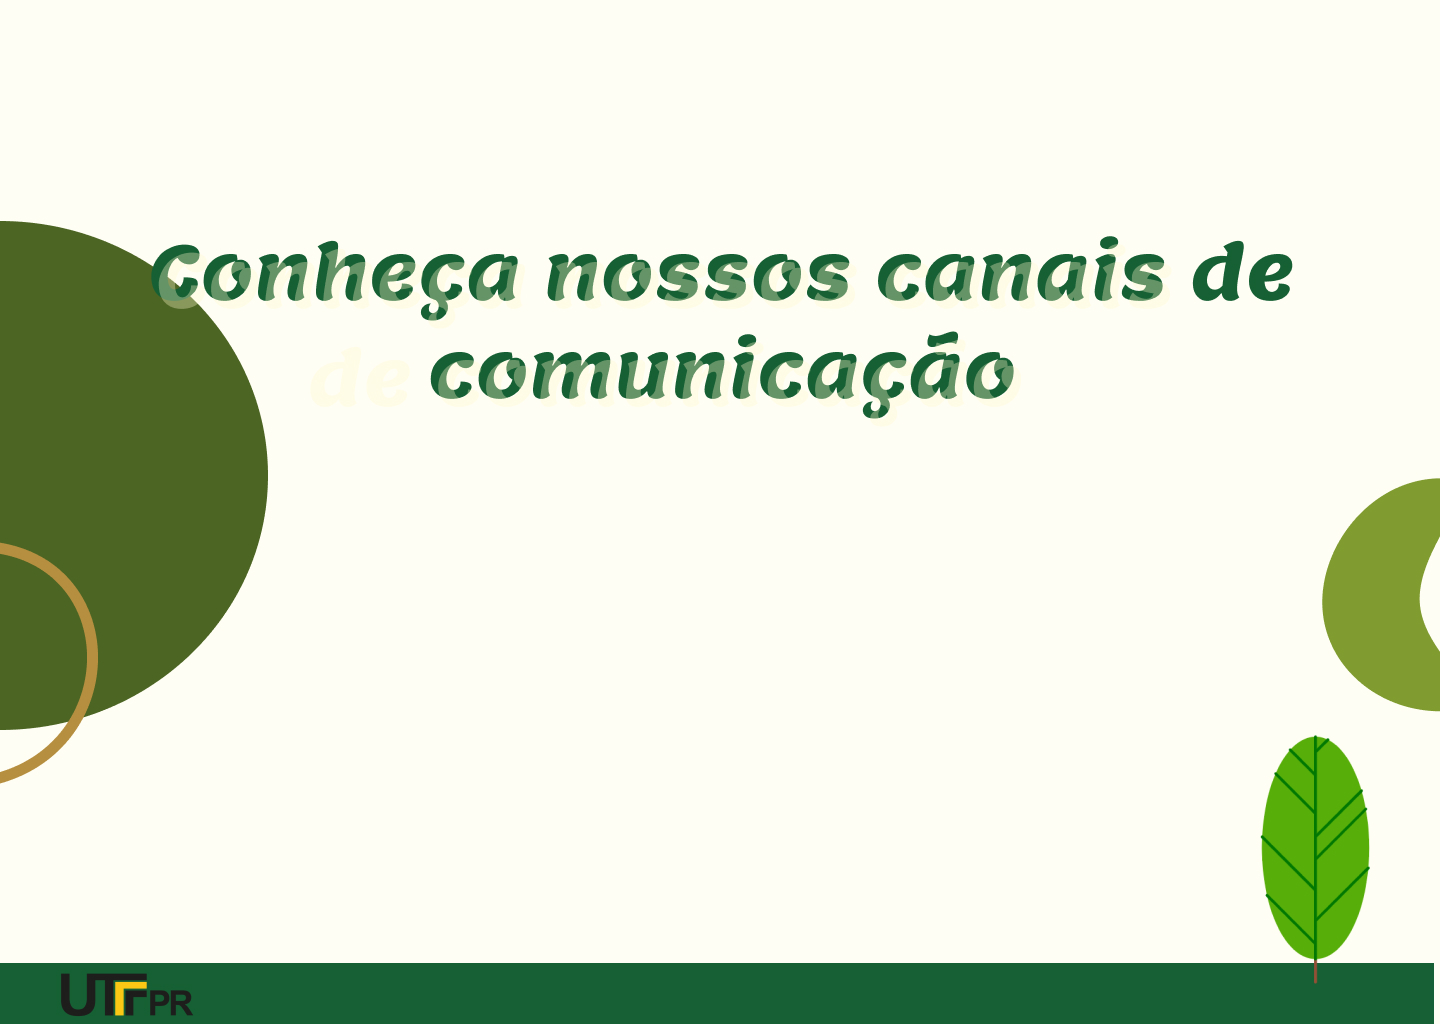
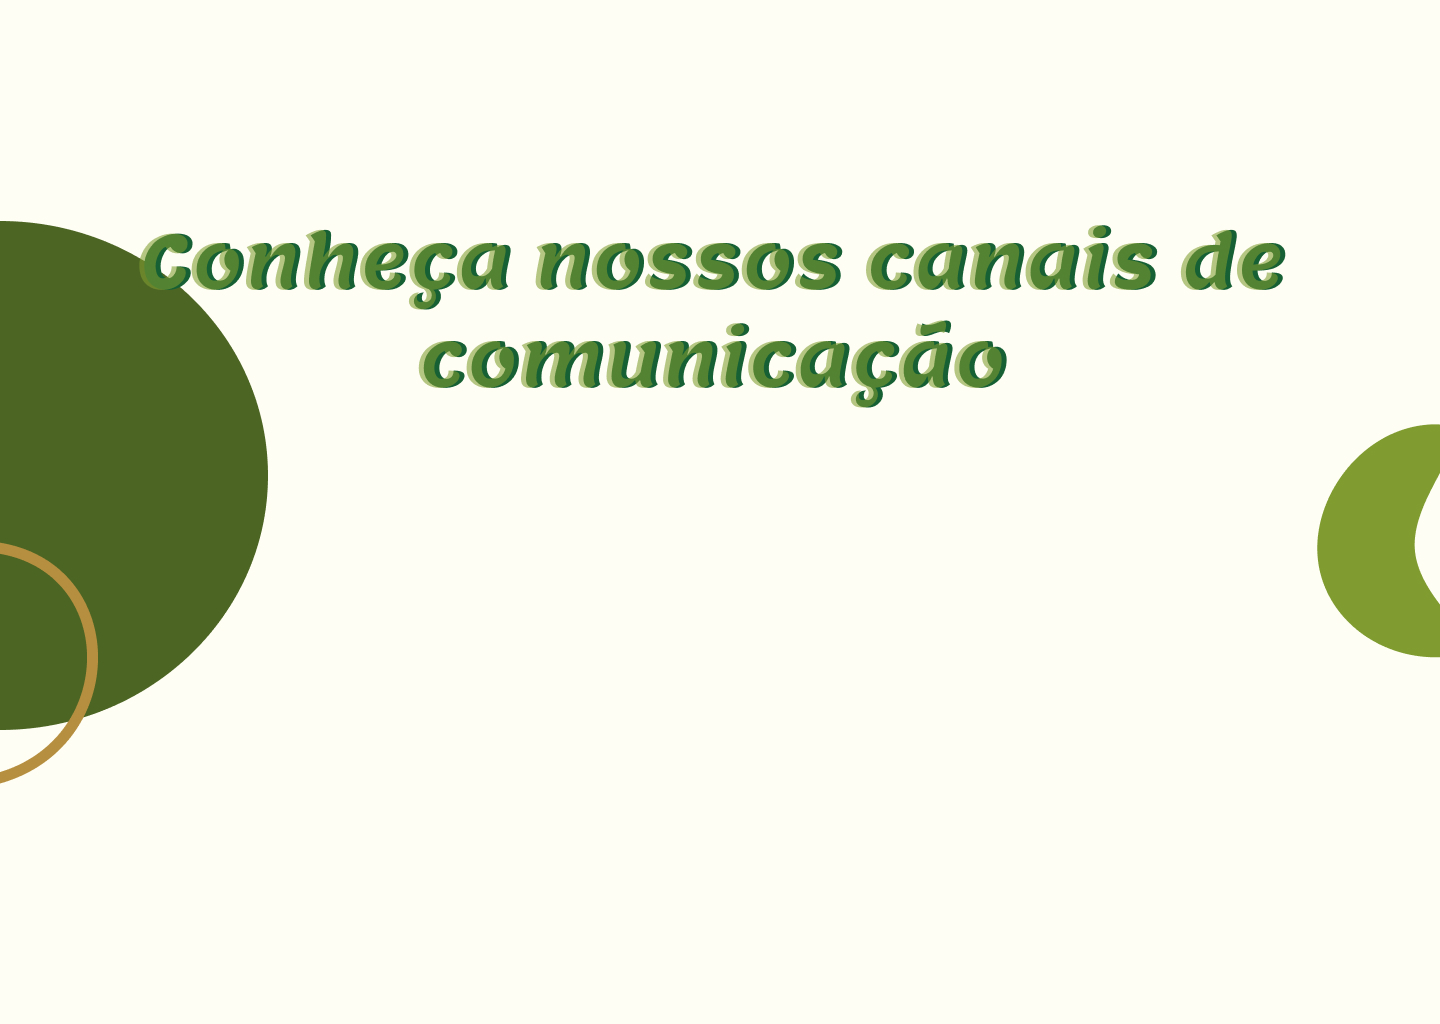
Contato Refeito
Página de contato refeita

Changed region(s): [[0.0938, 0.2188, 0.9062, 0.4062], [0.0, 0.7188, 1.0, 1.0], [0.9062, 0.4062, 1.0, 0.7188]]

diff --git a/src/pages/Contato/styles.js b/src/pages/Contato/styles.js
@@ -27,6 +27,63 @@ export const styles = StyleSheet.create({
     zIndex: 2,
   },
 
+  navbar2: {
+    flexDirection: 'row',
+    justifyContent: 'space-around',
+    alignItems: 'center',
+    height: width * 0.06814583333333333333333333333333,
+    backgroundColor: '#166034',
+    position: 'absolute',
+    bottom: 0,
+    right: 0,
+    width: '100%',
+   bottom: 0,
+  },
+
+ 
+  araucarias: {
+    width: width * 0.1651041666666667,
+    height: width * 0.146875,
+    marginRight: width * 0.0260416666666667,
+  },
+
+  araucarias2: {
+    zIndex: -2,
+    width: width * 0.1155729166666667,
+    height: width * 0.1028125,
+
+  },
+
+  imageContainer22: {
+    flex: 1,
+    flexDirection: 'row',
+    justifyContent: 'flex-start',
+    alignItems: 'center', 
+
+  },
+
+  imageContainer33: {
+    top: width * 0.52,
+    flexDirection: 'row',
+    justifyContent: 'flex-end',
+    alignItems: 'center',
+    left: width * 0.1041666666666667,
+    marginRight: width * 0.1041666666666667,
+  },
+  imageContainer44: {
+    zIndex:-1,
+    top: width * 0.41,
+    flexDirection: 'row',
+    justifyContent: 'flex-end',
+    alignItems: 'center',
+    marginRight: width * 0.1380208333333333,
+  },
+
+  utfprImage: {
+    width: 144 * (width * 0.00067708333),
+    height:57 * (width * 0.00067708333),
+    marginLeft: width * 0.0208333333333333,
+  },
   navbarButton: {
     fontSize: width * 0.0166666666666667,
     color: '#FFF',

diff --git a/src/pages/Contato/index.js b/src/pages/Contato/index.js
@@ -75,7 +75,20 @@ export default function Contato() {
             </TouchableOpacity>
 
           </View>
+          <View style={styles.imageContainer33}>
+          <Image source={require('../../assets/araucarias.png')}  style={styles.araucarias} />
+        
+      </View>
 
+          <View style={styles.imageContainer44}>
+          <Image source={require('../../assets/araucarias.png')}  style={styles.araucarias2} />
+        
+      </View>
+        <View style={styles.navbar2}>
+      <View style={styles.imageContainer22}>
+          <Image source={require('../../assets/UtfprBottom.png')}  style={styles.utfprImage} />
+      </View>
+      </View>
         </ImageBackground>
       </ScrollView>
     </ScrollView>
